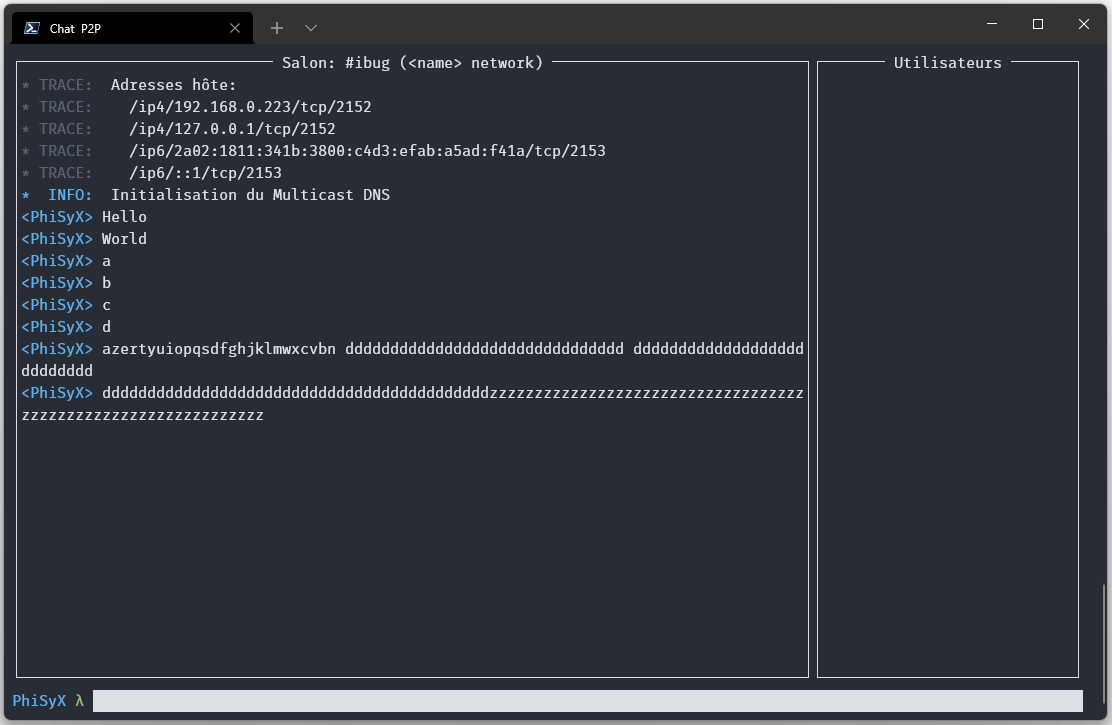
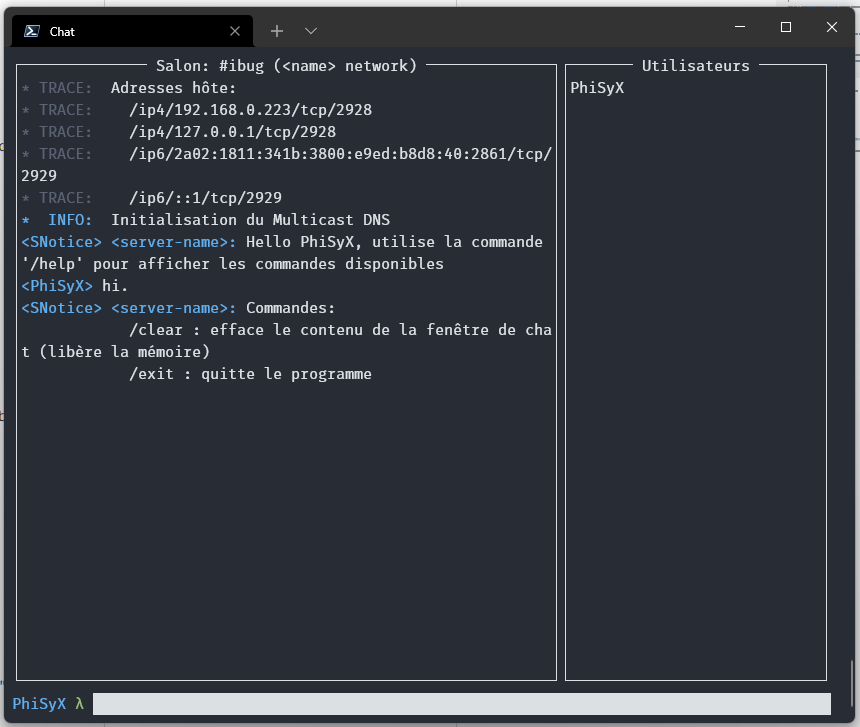
docs: mise à jour du README, de la capture d'écran

diff --git a/main.go b/main.go
@@ -2,6 +2,7 @@ package main
 
 import (
 	"context"
+	"fmt"
 	"log"
 
 	chat "github.com/PhiSyX/ibug-p2p-gochat/chat"
@@ -64,6 +65,8 @@ func main() {
 	}
 
 	state := chat.NewState(ctx, api, cli_args)
+
+	ui.Log(fmt.Sprintf("Hello %s, utilise la commande '/help' pour afficher les commandes disponibles", *cli_args.Options.Nick))
 	ui.Start(state, channel)
 
 	<-ui.OkChan
